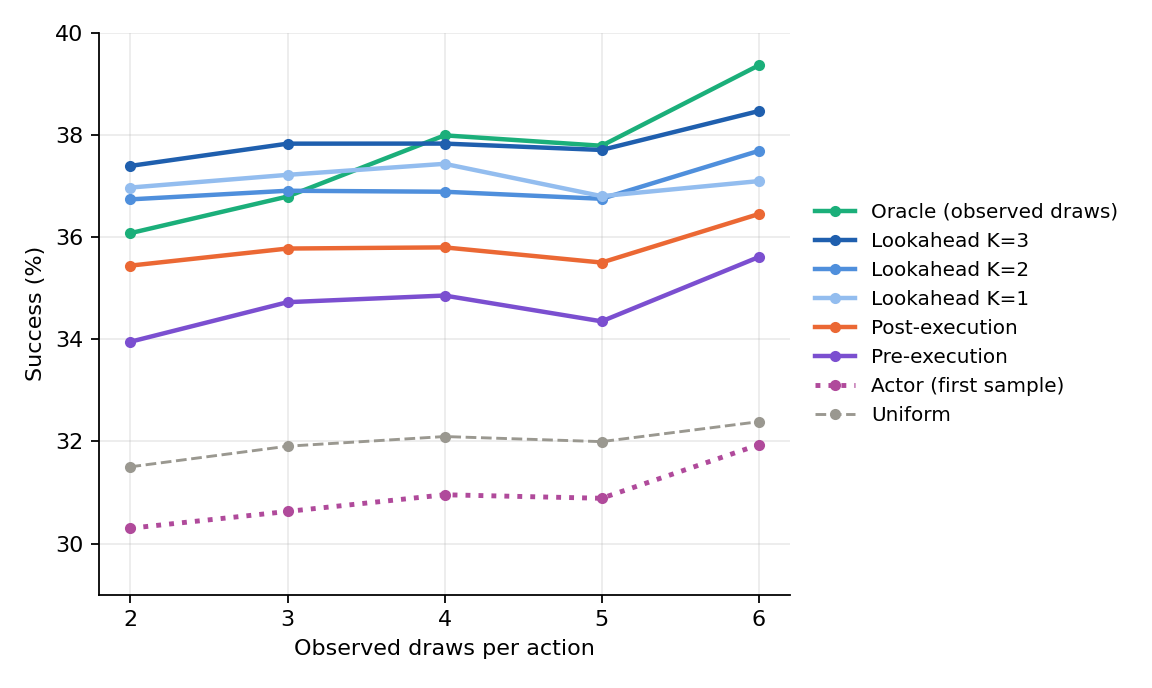
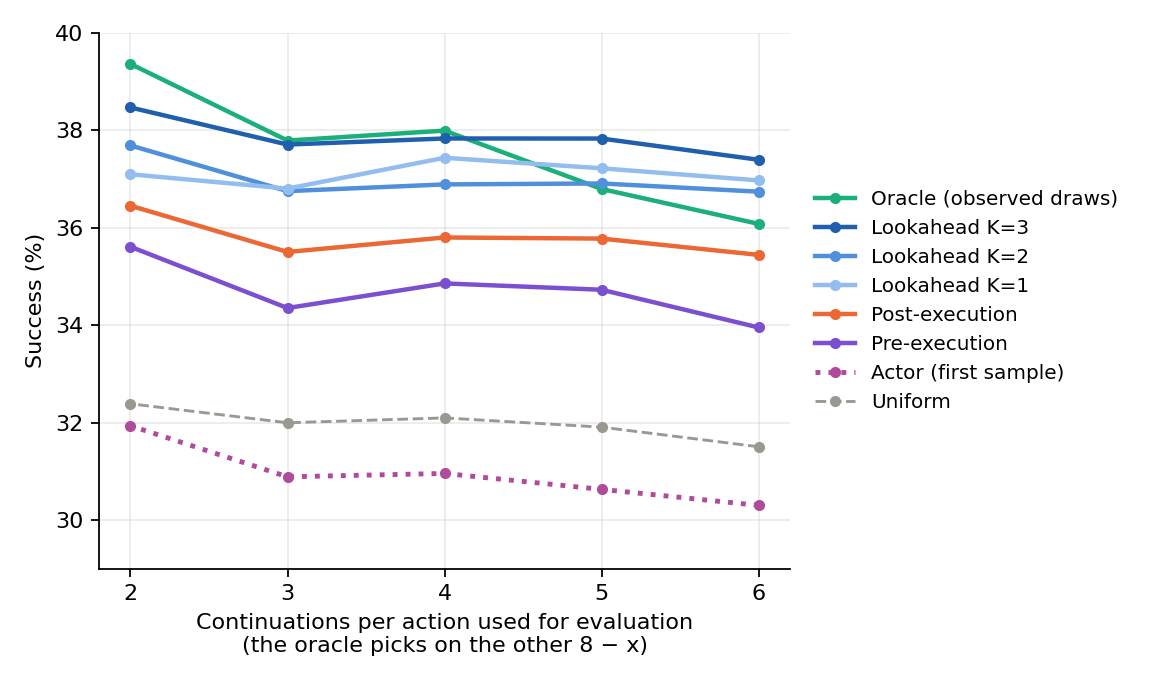
Lookahead draw-split figure: x-axis is continuations used for evaluation; table reordered to match

diff --git a/openwebrl/docs/arm_results/rl_integration/lookahead-draw-split-20261013/plot_piotr_single.py b/openwebrl/docs/arm_results/rl_integration/lookahead-draw-split-20261013/plot_piotr_single.py
@@ -15,6 +15,7 @@ D = Path(__file__).resolve().parent
 MODE = sys.argv[1] if len(sys.argv) > 1 else "invalid_as_failure"      # or valid_only
 r = {int(k): v["pooled"] for k, v in json.loads((D / "curve_piotr.json").read_text())[MODE].items()}
 ns = sorted(r)
+xs = [8 - n for n in ns]                                      # continuations used for evaluation
 ACTOR = "Actor first sample"
 actor = [r[n][ACTOR][0] for n in ns]
 suffix = "" if MODE == "invalid_as_failure" else "_valid_only"
@@ -25,17 +26,18 @@ for kind in ("gain", "absolute", "absolute_lines"):           # absolute_lines: 
             continue
         if k == ACTOR:
             y = [0] * len(ns) if kind == "gain" else actor
-            ax.plot(ns, y, color=color, ls=ls, lw=1.8 if kind == "gain" else 2.2, marker=None if kind == "gain" else "o", ms=4,
+            ax.plot(xs, y, color=color, ls=ls, lw=1.8 if kind == "gain" else 2.2, marker=None if kind == "gain" else "o", ms=4,
                     label=label, zorder=3)
             continue
         d = [r[n]["minus_actor"][k] for n in ns]
         base = [0] * len(ns) if kind == "gain" else actor
-        ax.plot(ns, [b + x[0] for b, x in zip(base, d)], color=color, ls=ls, marker="o", ms=4,
+        ax.plot(xs, [b + x[0] for b, x in zip(base, d)], color=color, ls=ls, marker="o", ms=4,
                 lw=1.3 if k == "Uniform" else 2, label=label)
         if kind != "absolute_lines":
-            ax.fill_between(ns, [b + x[1] for b, x in zip(base, d)], [b + x[2] for b, x in zip(base, d)],
+            ax.fill_between(xs, [b + x[1] for b, x in zip(base, d)], [b + x[2] for b, x in zip(base, d)],
                             color=color, alpha=.10, lw=0)
-    ax.set_xticks(ns); ax.set_xlabel("Observed draws per action"); ax.grid(alpha=.25)
+    ax.set_xticks(sorted(xs)); ax.set_xlabel("Continuations per action used for evaluation\n(the oracle picks on the other 8 − x)")
+    ax.grid(alpha=.25)
     if kind == "absolute_lines":                                # whole-number frame, so the 40% gridline shows
         lo, hi = ax.get_ylim()
         ax.set_ylim(min(30, int(lo)), max(40, int(hi) + 1))

diff --git a/openwebrl/docs/ARM_FORMULATIONS.md b/openwebrl/docs/ARM_FORMULATIONS.md
@@ -528,8 +528,8 @@ Every condition is the same GPT-6 Luna request (`gpt-6-luna`, high reasoning eff
 
 #### Robustness: how many observed outcomes is lookahead worth?
 
-**On Piotr-matched tasks, K = 3 lookahead beats the actor's first sample by about 7 pp at every split, and matches an oracle that picks on 3–5 observed outcomes.**
-- **Setup:** the oracle picks the action with the best success on draws 0..n−1. Every condition is scored on draws n..7. Teacher conditions see only draw 0, so the split changes only which draws score them.
+**On Piotr-matched tasks, K = 3 lookahead beats the actor's first sample by about 7 pp at every split, and matches an oracle that picks on 3–5 observed outcomes (3–5 evaluation continuations).**
+- **Setup:** the x-axis is the number of continuations per action used for evaluation (the last x of draws 0–7). The oracle picks the action with the best success on the other 8 − x draws. Teacher conditions see only draw 0, so for them the split changes only how many draws score them; only the oracle uses the remaining draws.
 - **States:** Piotr-matched tasks (normalized instruction in the pinned training set; fresh states, not Piotr's archived states), unique model inputs.
 - **Valid draws only:** a state is kept at split n when every action has a valid draw on both sides; 463–484 states, 70–76 tasks.
 - **Bands (first figure):** 95% task-clustered interval of each condition's paired difference from the actor's first sample, drawn around the actor's rate plus that difference. A band clear of the actor line is a significant gain over the actor.
@@ -538,18 +538,19 @@ Every condition is the same GPT-6 Luna request (`gpt-6-luna`, high reasoning eff
 
 ![Success vs observed draws, Piotr-matched tasks, valid draws only, lines only](arm_results/rl_integration/lookahead-draw-split-20261013/lookahead_draw_split_piotr_absolute_lines_valid_only.png)
 
-| Success, % | n = 2 | 3 | 4 | 5 | 6 |
+| Success, % | 2 eval | 3 eval | 4 eval | 5 eval | 6 eval |
 | --- | ---: | ---: | ---: | ---: | ---: |
-| Oracle (observed draws) | 36.1 | 36.8 | 38.0 | 37.8 | 39.4 |
-| Lookahead K = 3 | 37.4 | 37.8 | 37.8 | 37.7 | 38.5 |
-| Lookahead K = 2 | 36.7 | 36.9 | 36.9 | 36.8 | 37.7 |
-| Lookahead K = 1 | 37.0 | 37.2 | 37.4 | 36.8 | 37.1 |
-| Post-execution | 35.4 | 35.8 | 35.8 | 35.5 | 36.5 |
-| Pre-execution | 34.0 | 34.7 | 34.9 | 34.4 | 35.6 |
-| Uniform | 31.5 | 31.9 | 32.1 | 32.0 | 32.4 |
-| Actor (first sample) | 30.3 | 30.6 | 31.0 | 30.9 | 31.9 |
-| States | 463 | 481 | 484 | 484 | 465 |
-| Tasks | 70 | 76 | 76 | 76 | 72 |
+| Oracle (observed draws) | 39.4 | 37.8 | 38.0 | 36.8 | 36.1 |
+| Lookahead K = 3 | 38.5 | 37.7 | 37.8 | 37.8 | 37.4 |
+| Lookahead K = 2 | 37.7 | 36.8 | 36.9 | 36.9 | 36.7 |
+| Lookahead K = 1 | 37.1 | 36.8 | 37.4 | 37.2 | 37.0 |
+| Post-execution | 36.5 | 35.5 | 35.8 | 35.8 | 35.4 |
+| Pre-execution | 35.6 | 34.4 | 34.9 | 34.7 | 34.0 |
+| Uniform | 32.4 | 32.0 | 32.1 | 31.9 | 31.5 |
+| Actor (first sample) | 31.9 | 30.9 | 31.0 | 30.6 | 30.3 |
+| Oracle observes | draws 0–5 | draws 0–4 | draws 0–3 | draws 0–2 | draws 0–1 |
+| States | 465 | 484 | 484 | 481 | 463 |
+| Tasks | 72 | 76 | 76 | 76 | 70 |
 
 - **Absolute rates are low** because 421 of the 559 Piotr-matched labelled states are `fast1k` states, filtered to informative states and concentrated on arXiv and error or blank pages.
 - **K = 2** sits between K = 1 and K = 3 within noise; depth beyond one step adds little.
